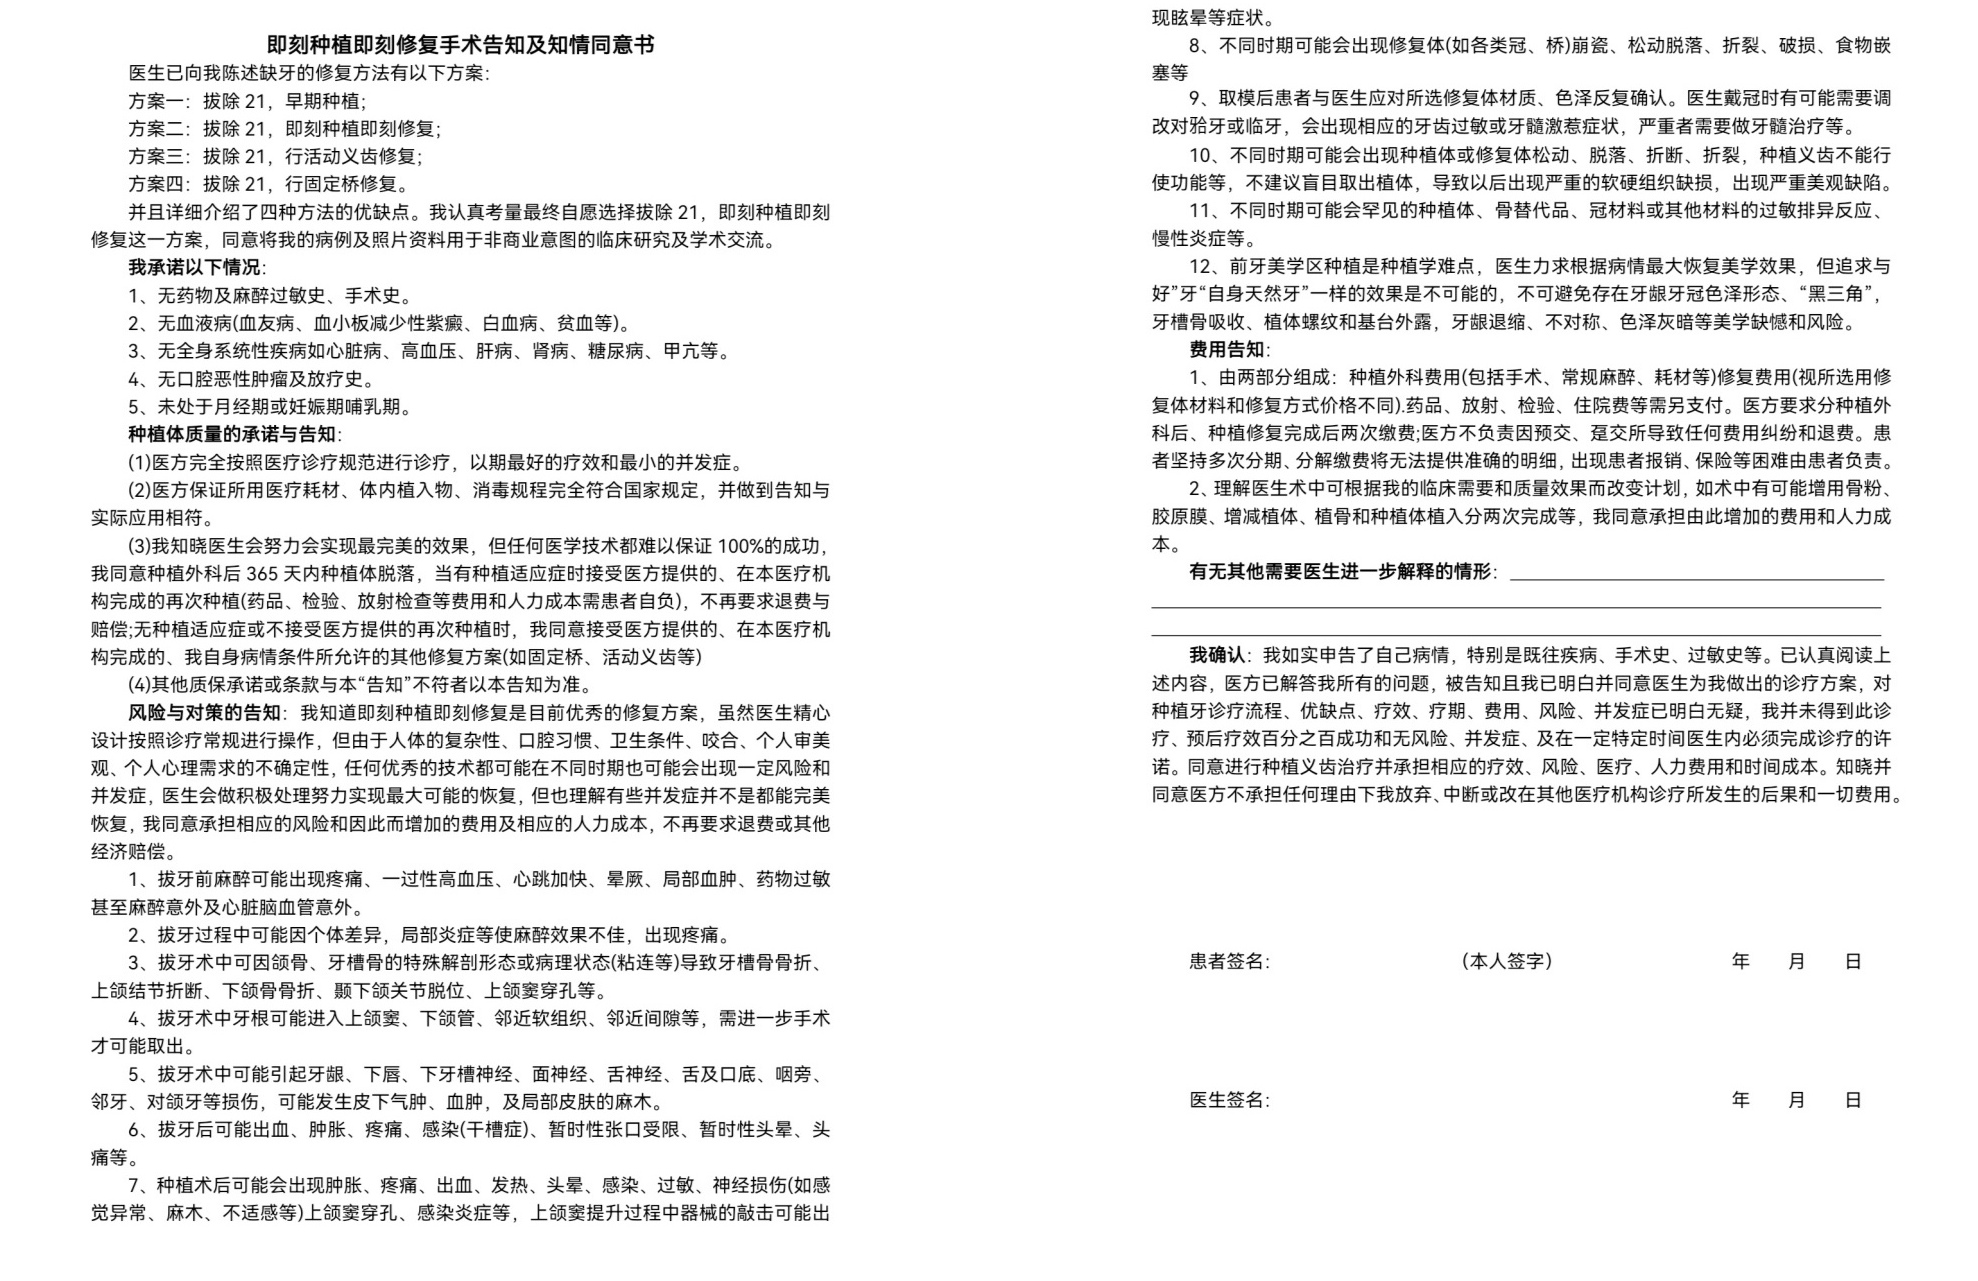
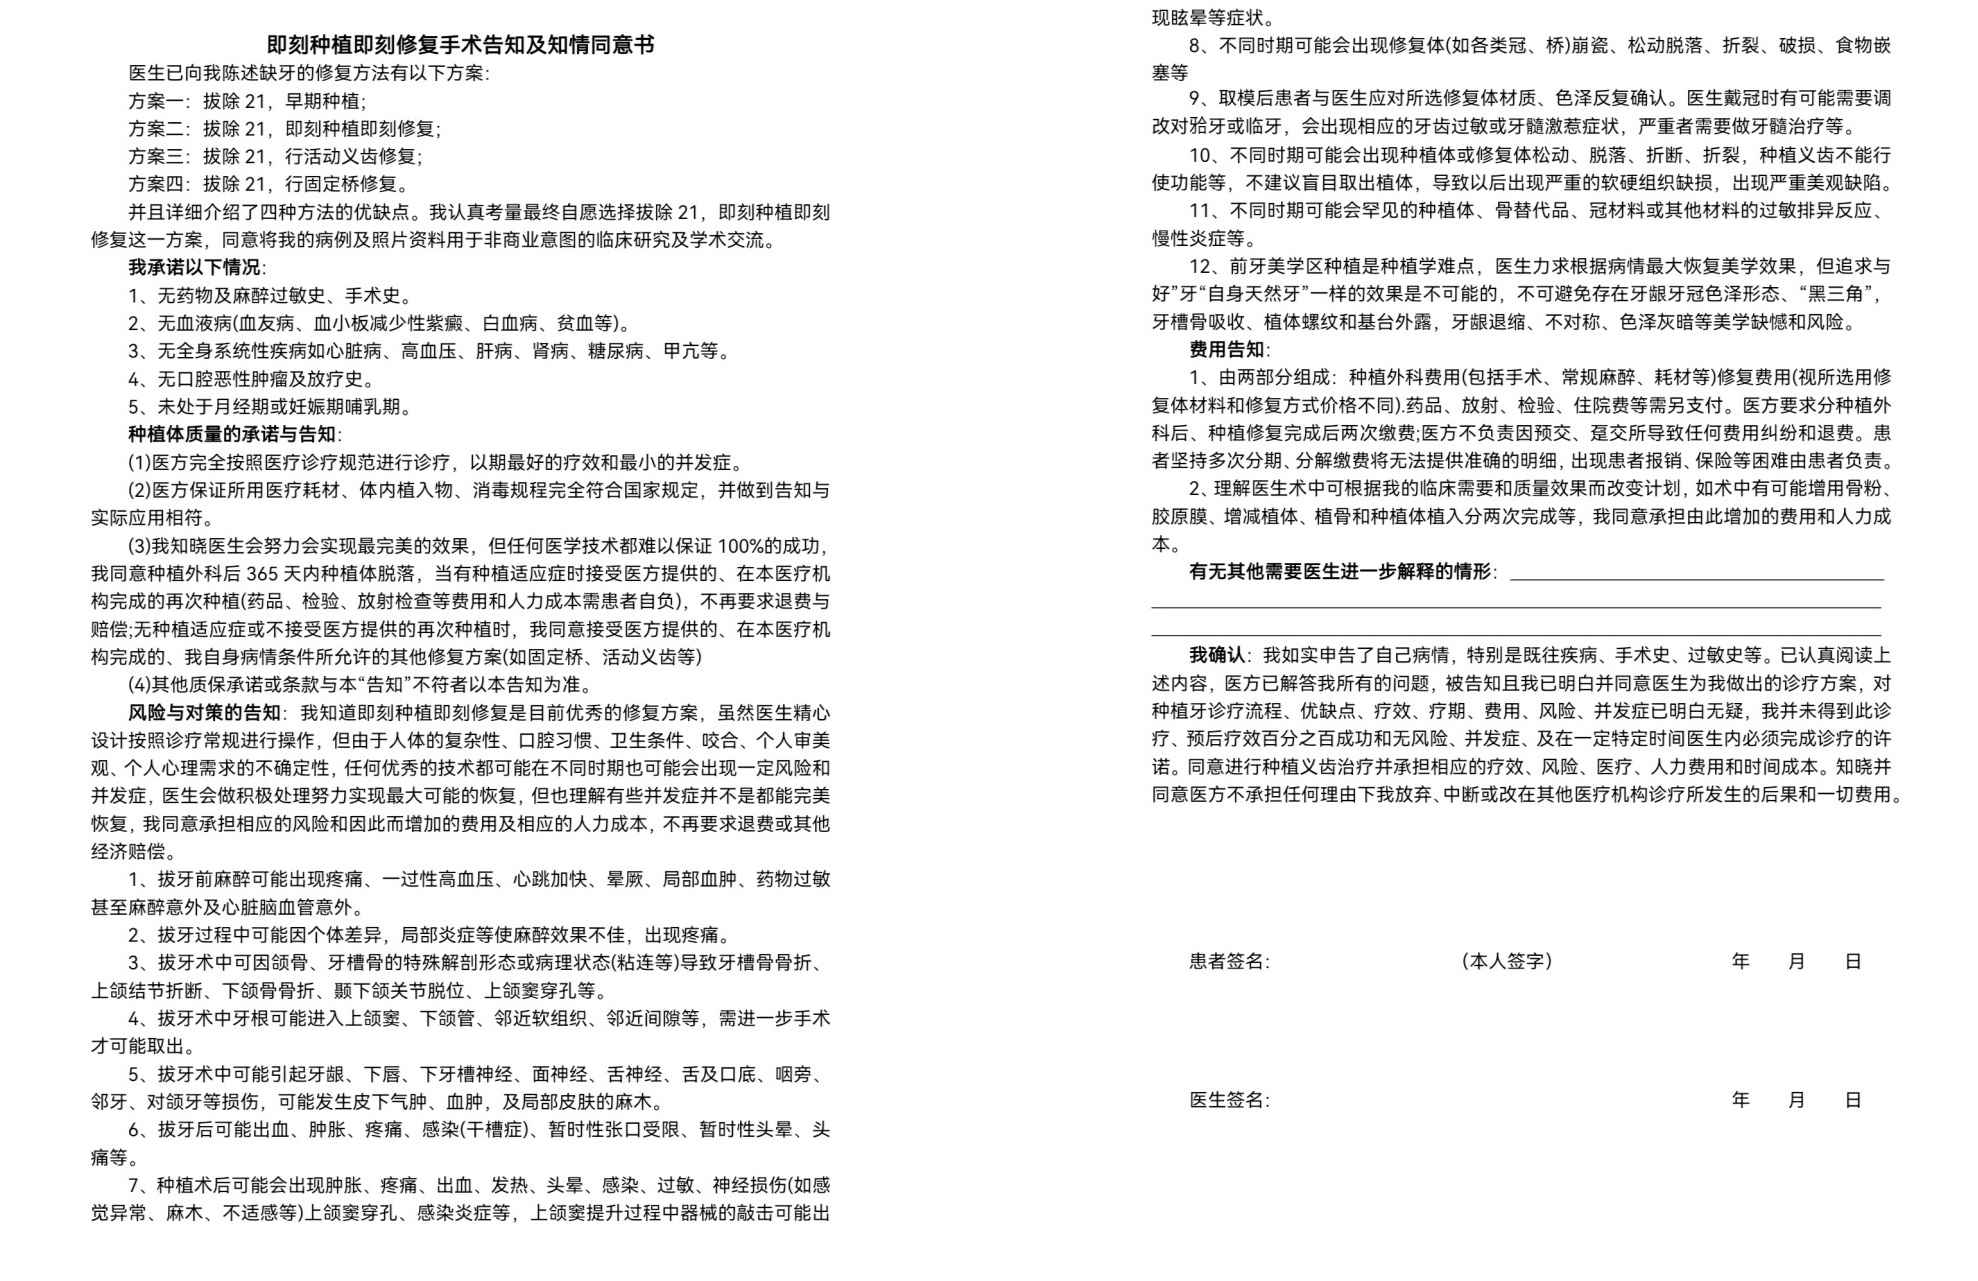
fix: compress img

diff --git a/src/components/Test.vue b/src/components/Test.vue
@@ -220,7 +220,7 @@ export default {
         this.$data.subIndex++
         return
       }
-      if (this.$data.index === '3' && this.$data.subIndex < 3) {
+      if (this.$data.index === '3' && this.$data.subIndex < 2) {
         this.$data.subIndex++
         return
       }

diff --git a/src/components/Warnings.vue b/src/components/Warnings.vue
@@ -115,7 +115,7 @@
       </div>
     </div>
       </div>
-      <!-- <img src="https://p2.itc.cn/q_70/images03/20211230/dfd70c048dea44c096e168cfd7996e07.png" /> -->
+      <img src="./../assets/warnings.png" />
     </el-col>
   </el-row>
   <br>
